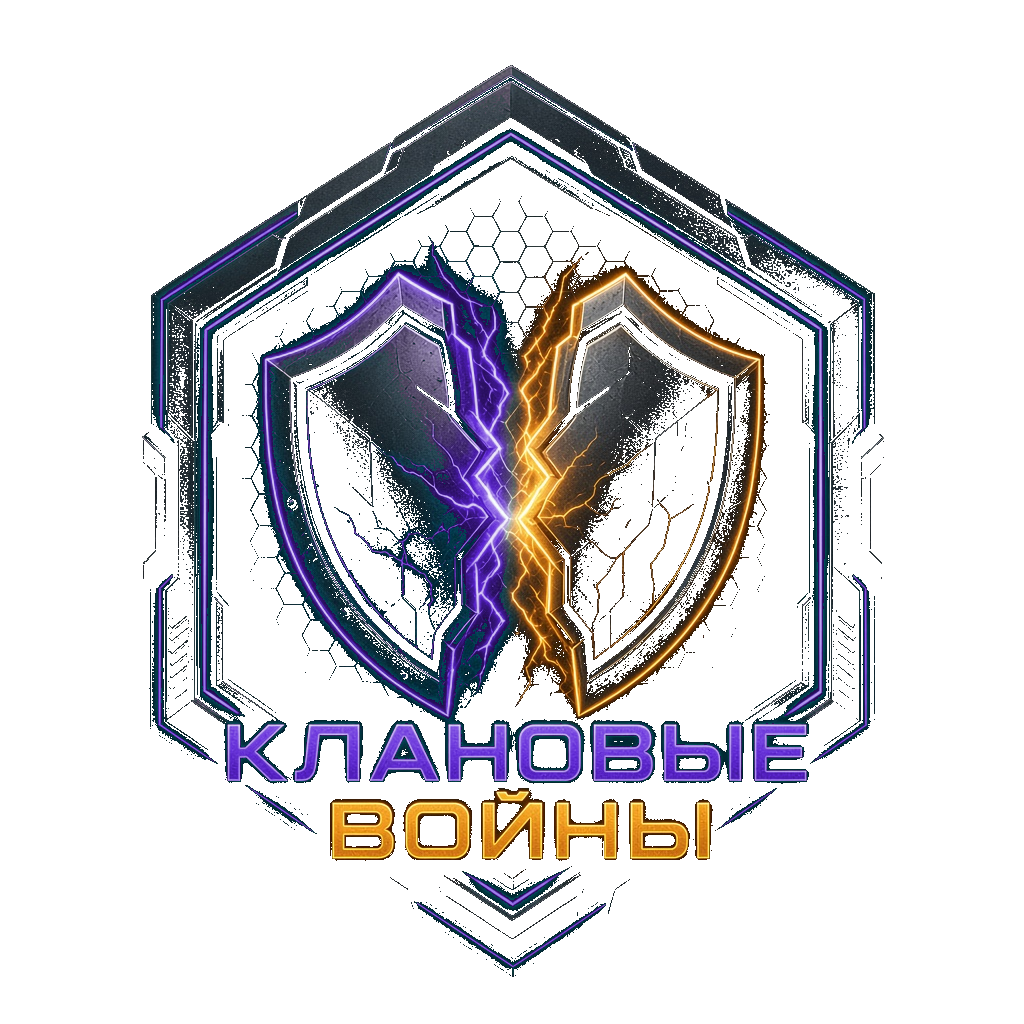
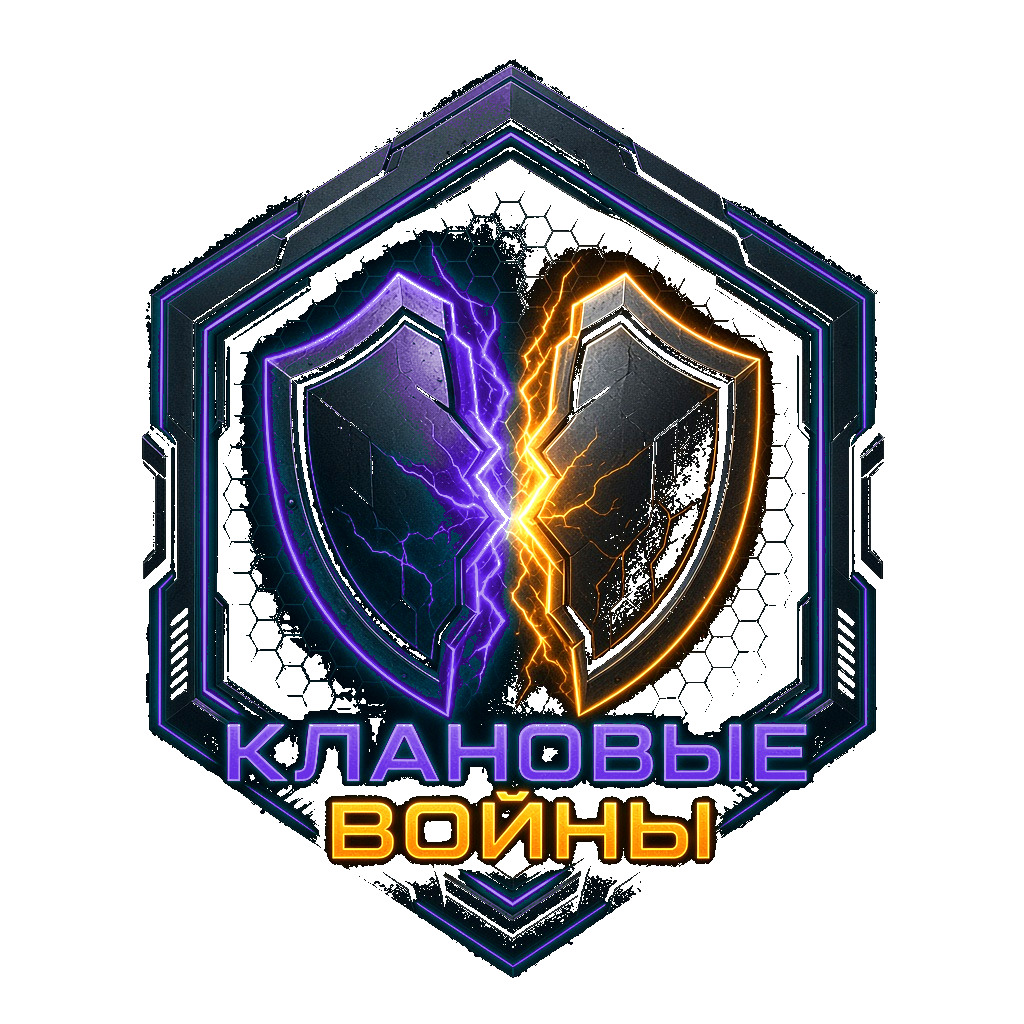
Make home hub tile emblems solid and readable.
Rebuild PNGs without washed-out alpha and bump contrast so hex frames and icons stay sharp on the plate.

Changed region(s): [[0.125, 0.0625, 0.875, 0.9688]]

diff --git a/src/app/globals.css b/src/app/globals.css
@@ -22564,11 +22564,12 @@ body:has(.not-found-page) .site-footer-note {
 
 .home-hub-tile-art {
   position: absolute;
-  inset: 2px;
+  inset: 0;
   z-index: 1;
   background-position: center;
   background-repeat: no-repeat;
-  background-size: contain;
+  background-size: 108%;
+  filter: contrast(1.08) saturate(1.1) brightness(1.06);
   pointer-events: none;
 }
 

diff --git a/src/components/HomeHub.tsx b/src/components/HomeHub.tsx
@@ -52,7 +52,7 @@ export function HomeHub({ showCw, cwCards }: Props) {
             <span
               className="home-hub-tile-art"
               aria-hidden="true"
-              style={{ backgroundImage: `url(${tile.image}?v=plate2)` }}
+              style={{ backgroundImage: `url(${tile.image}?v=plate3)` }}
             />
           </Link>
         ))}

diff --git a/docs/CHANGELOG.md b/docs/CHANGELOG.md
@@ -1,3 +1,9 @@
+## v. 1.2.146 — 05.11.2026 · Хаб: чёткие эмблемы плиток
+
+Пересобрали PNG без полупрозрачных линий: контраст и насыщенность выше, рамки и иконки читаются на плите.
+
+---
+
 ## v. 1.2.145 — 05.11.2026 · Хаб: плотнее сетка, КВ сверху, прогноз-заглушка
 
 Плитки по центру с равными полями, без правой колонки. Единый фиолетовый фон под эмблемами. КВ слева компактно сверху + кнопка «Прогноз».
